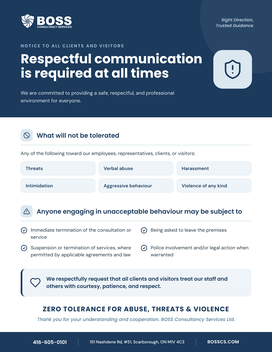
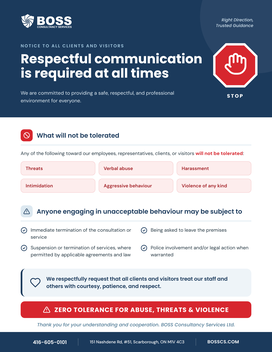
Notice: red stop sign and red accents
Claude-Session: https://claude.ai/code/session_01P2g3NL2n6FqvaNYp5x9Ud1

diff --git a/public/general/notice.html b/public/general/notice.html
@@ -1,4 +1,4 @@
-<section class="sheet" data-tpl="notice-v2" style="width:816px;height:1056px">
+<section class="sheet" data-tpl="notice-v3" style="width:816px;height:1056px">
 <div style="position:relative;width:816px;height:1056px;overflow:hidden;background:#ffffff;font-family:'DM Sans',sans-serif;">
 <div data-kind="shape" style="position: absolute; left: 0px; top: 0px; width: 816px; height: 352px; margin: 0; box-sizing: border-box; background-color: rgb(27, 58, 92); background-size: auto; background-position: 0% 0%; background-repeat: repeat; border-radius: 0px"></div>
 <div data-kind="shape" style="position: absolute; left: 600px; top: -120px; width: 340px; height: 340px; margin: 0; box-sizing: border-box; background-color: rgba(220, 232, 240, 0.07); background-size: auto; background-position: 0% 0%; background-repeat: repeat; border-radius: 50%"></div>
@@ -7,19 +7,19 @@
 <div data-kind="text" style="position: absolute; left: 62px; top: 128px; width: 310.93px; height: 20px; margin: 0; box-sizing: border-box; hyphens: manual; text-indent: 0px; font-kerning: auto; font-family: Poppins; font-size: 13px; font-weight: 600; letter-spacing: 2.08px; word-spacing: 0px; color: rgb(158, 195, 219); text-align: start; background-size: auto; background-position: 0% 0%; background-repeat: repeat; border-radius: 0px; padding: 0px">NOTICE TO ALL CLIENTS AND VISITORS</div>
 <div data-kind="text" style="position: absolute; left: 62px; top: 156px; width: 570.02px; height: 85.78px; margin: 0; box-sizing: border-box; hyphens: manual; text-indent: 0px; font-kerning: auto; font-family: Poppins; font-size: 39px; font-weight: 700; line-height: 42.9px; word-spacing: 0px; color: rgb(255, 255, 255); text-align: start; background-size: auto; background-position: 0% 0%; background-repeat: repeat; border-radius: 0px; padding: 0px">Respectful communication<br>is required at all times</div>
 <div data-kind="text" style="position: absolute; left: 62px; top: 268px; width: 540.02px; height: 45px; margin: 0; box-sizing: border-box; hyphens: manual; text-indent: 0px; font-kerning: auto; font-family: 'DM Sans', sans-serif; font-size: 15px; font-weight: 400; line-height: 22.5px; word-spacing: 0px; color: rgb(220, 232, 240); text-align: start; background-size: auto; background-position: 0% 0%; background-repeat: repeat; border-radius: 0px; padding: 0px">We are committed to providing a safe, respectful, and professional environment for everyone.</div>
-<div data-kind="shape" style="position: absolute; left: 640px; top: 150px; width: 116px; height: 116px; margin: 0; box-sizing: border-box; background-color: rgb(220, 232, 240); background-size: auto; background-position: 0% 0%; background-repeat: repeat; border-radius: 28px"></div>
-<svg width="64" height="64" viewBox="0 0 24 24" fill="none" stroke="#1B3A5C" stroke-width="1.7" stroke-linecap="round" stroke-linejoin="round" style="position: absolute; left: 666px; top: 176px; width: 64px; height: 64px; margin: 0; box-sizing: border-box; color: rgb(0, 0, 0)"><path d="M20 13c0 5-3.5 7.5-7.66 8.95a1 1 0 0 1-.67-.01C7.5 20.5 4 18 4 13V6a1 1 0 0 1 1-1c2 0 4.5-1.2 6.24-2.72a1.17 1.17 0 0 1 1.52 0C14.51 3.81 17 5 19 5a1 1 0 0 1 1 1z"></path><path d="M12 8v4"></path><path d="M12 16h.01"></path></svg>
-<div data-kind="shape" style="position: absolute; left: 62px; top: 388px; width: 36px; height: 36px; margin: 0; box-sizing: border-box; background-color: rgb(220, 232, 240); background-size: auto; background-position: 0% 0%; background-repeat: repeat; border-radius: 10px"></div>
-<svg width="20" height="20" viewBox="0 0 24 24" fill="none" stroke="#1B3A5C" stroke-width="2" stroke-linecap="round" stroke-linejoin="round" style="position: absolute; left: 70px; top: 396px; width: 20px; height: 20px; margin: 0; box-sizing: border-box; color: rgb(0, 0, 0)"><circle cx="12" cy="12" r="10"></circle><path d="m4.9 4.9 14.2 14.2"></path></svg>
+<svg style="position: absolute; left: 636px; top: 126px; width: 140px; height: 140px; margin: 0; box-sizing: border-box; color: rgb(0, 0, 0)" width="140" height="140" viewBox="0 0 160 160"><polygon points="47,4 113,4 156,47 156,113 113,156 47,156 4,113 4,47" fill="#ffffff"></polygon><polygon points="50,12 110,12 148,50 148,110 110,148 50,148 12,110 12,50" fill="#D7262E"></polygon><g transform="translate(40 34) scale(3.4)" fill="none" stroke="#ffffff" stroke-width="1.8" stroke-linecap="round" stroke-linejoin="round"><path d="M18 11V6a2 2 0 0 0-4 0"></path><path d="M14 10V4a2 2 0 0 0-4 0v2"></path><path d="M10 10.5V6a2 2 0 0 0-4 0v8"></path><path d="M18 8a2 2 0 1 1 4 0v6a8 8 0 0 1-8 8h-2c-2.8 0-4.5-.86-5.99-2.34l-3.6-3.6a2 2 0 0 1 2.83-2.82L7 15"></path></g></svg>
+<div data-kind="text" style="position: absolute; left: 636px; top: 276px; width: 140.02px; height: 23px; margin: 0; box-sizing: border-box; hyphens: manual; text-indent: 0px; font-kerning: auto; font-family: Poppins; font-size: 15px; font-weight: 700; letter-spacing: 2.7px; word-spacing: 0px; color: rgb(255, 255, 255); text-align: center; background-size: auto; background-position: 0% 0%; background-repeat: repeat; border-radius: 0px; padding: 0px">STOP</div>
+<div data-kind="shape" style="position: absolute; left: 62px; top: 388px; width: 36px; height: 36px; margin: 0; box-sizing: border-box; background-color: rgb(215, 38, 46); background-size: auto; background-position: 0% 0%; background-repeat: repeat; border-radius: 10px"></div>
+<svg width="20" height="20" viewBox="0 0 24 24" fill="none" stroke="#ffffff" stroke-width="2.2" stroke-linecap="round" stroke-linejoin="round" style="position: absolute; left: 70px; top: 396px; width: 20px; height: 20px; margin: 0; box-sizing: border-box; color: rgb(0, 0, 0)"><circle cx="12" cy="12" r="10"></circle><path d="m4.9 4.9 14.2 14.2"></path></svg>
 <div data-kind="text" style="position: absolute; left: 110px; top: 391.5px; width: 247.96px; height: 29px; margin: 0; box-sizing: border-box; hyphens: manual; text-indent: 0px; font-kerning: auto; font-family: Poppins; font-size: 19px; font-weight: 600; word-spacing: 0px; color: rgb(27, 58, 92); text-align: start; background-size: auto; background-position: 0% 0%; background-repeat: repeat; border-radius: 0px; padding: 0px">What will not be tolerated</div>
 <div data-kind="shape" style="position: absolute; left: 62px; top: 434px; width: 692px; height: 2px; margin: 0; box-sizing: border-box; background-color: rgb(220, 232, 240); background-size: auto; background-position: 0% 0%; background-repeat: repeat; border-radius: 0px"></div>
-<div data-kind="text" style="position: absolute; left: 62px; top: 450px; width: 692.02px; height: 21.75px; margin: 0; box-sizing: border-box; hyphens: manual; text-indent: 0px; font-kerning: auto; font-family: 'DM Sans', sans-serif; font-size: 14.5px; font-weight: 400; line-height: 21.75px; word-spacing: 0px; color: rgb(34, 52, 63); text-align: start; background-size: auto; background-position: 0% 0%; background-repeat: repeat; border-radius: 0px; padding: 0px">Any of the following toward our employees, representatives, clients, or visitors:</div>
-<div data-kind="text" style="position: absolute; left: 62px; top: 484px; width: 224.02px; height: 42px; margin: 0; box-sizing: border-box; hyphens: manual; text-indent: 0px; font-kerning: auto; font-family: 'DM Sans', sans-serif; font-size: 14px; font-weight: 600; word-spacing: 0px; color: rgb(27, 58, 92); text-align: start; background-color: rgb(238, 244, 248); background-size: auto; background-position: 0% 0%; background-repeat: repeat; border-top: 1px solid rgb(220, 232, 240); border-right: 1px solid rgb(220, 232, 240); border-bottom: 1px solid rgb(220, 232, 240); border-left: 1px solid rgb(220, 232, 240); border-radius: 10px; padding: 11px 14px">Threats</div>
-<div data-kind="text" style="position: absolute; left: 296px; top: 484px; width: 224.02px; height: 42px; margin: 0; box-sizing: border-box; hyphens: manual; text-indent: 0px; font-kerning: auto; font-family: 'DM Sans', sans-serif; font-size: 14px; font-weight: 600; word-spacing: 0px; color: rgb(27, 58, 92); text-align: start; background-color: rgb(238, 244, 248); background-size: auto; background-position: 0% 0%; background-repeat: repeat; border-top: 1px solid rgb(220, 232, 240); border-right: 1px solid rgb(220, 232, 240); border-bottom: 1px solid rgb(220, 232, 240); border-left: 1px solid rgb(220, 232, 240); border-radius: 10px; padding: 11px 14px">Verbal abuse</div>
-<div data-kind="text" style="position: absolute; left: 530px; top: 484px; width: 224.02px; height: 42px; margin: 0; box-sizing: border-box; hyphens: manual; text-indent: 0px; font-kerning: auto; font-family: 'DM Sans', sans-serif; font-size: 14px; font-weight: 600; word-spacing: 0px; color: rgb(27, 58, 92); text-align: start; background-color: rgb(238, 244, 248); background-size: auto; background-position: 0% 0%; background-repeat: repeat; border-top: 1px solid rgb(220, 232, 240); border-right: 1px solid rgb(220, 232, 240); border-bottom: 1px solid rgb(220, 232, 240); border-left: 1px solid rgb(220, 232, 240); border-radius: 10px; padding: 11px 14px">Harassment</div>
-<div data-kind="text" style="position: absolute; left: 62px; top: 536px; width: 224.02px; height: 42px; margin: 0; box-sizing: border-box; hyphens: manual; text-indent: 0px; font-kerning: auto; font-family: 'DM Sans', sans-serif; font-size: 14px; font-weight: 600; word-spacing: 0px; color: rgb(27, 58, 92); text-align: start; background-color: rgb(238, 244, 248); background-size: auto; background-position: 0% 0%; background-repeat: repeat; border-top: 1px solid rgb(220, 232, 240); border-right: 1px solid rgb(220, 232, 240); border-bottom: 1px solid rgb(220, 232, 240); border-left: 1px solid rgb(220, 232, 240); border-radius: 10px; padding: 11px 14px">Intimidation</div>
-<div data-kind="text" style="position: absolute; left: 296px; top: 536px; width: 224.02px; height: 42px; margin: 0; box-sizing: border-box; hyphens: manual; text-indent: 0px; font-kerning: auto; font-family: 'DM Sans', sans-serif; font-size: 14px; font-weight: 600; word-spacing: 0px; color: rgb(27, 58, 92); text-align: start; background-color: rgb(238, 244, 248); background-size: auto; background-position: 0% 0%; background-repeat: repeat; border-top: 1px solid rgb(220, 232, 240); border-right: 1px solid rgb(220, 232, 240); border-bottom: 1px solid rgb(220, 232, 240); border-left: 1px solid rgb(220, 232, 240); border-radius: 10px; padding: 11px 14px">Aggressive behaviour</div>
-<div data-kind="text" style="position: absolute; left: 530px; top: 536px; width: 224.02px; height: 42px; margin: 0; box-sizing: border-box; hyphens: manual; text-indent: 0px; font-kerning: auto; font-family: 'DM Sans', sans-serif; font-size: 14px; font-weight: 600; word-spacing: 0px; color: rgb(27, 58, 92); text-align: start; background-color: rgb(238, 244, 248); background-size: auto; background-position: 0% 0%; background-repeat: repeat; border-top: 1px solid rgb(220, 232, 240); border-right: 1px solid rgb(220, 232, 240); border-bottom: 1px solid rgb(220, 232, 240); border-left: 1px solid rgb(220, 232, 240); border-radius: 10px; padding: 11px 14px">Violence of any kind</div>
+<div data-kind="text" style="position: absolute; left: 62px; top: 450px; width: 692.02px; height: 21.75px; margin: 0; box-sizing: border-box; hyphens: manual; text-indent: 0px; font-kerning: auto; font-family: 'DM Sans', sans-serif; font-size: 14.5px; font-weight: 400; line-height: 21.75px; word-spacing: 0px; color: rgb(34, 52, 63); text-align: start; background-size: auto; background-position: 0% 0%; background-repeat: repeat; border-radius: 0px; padding: 0px">Any of the following toward our employees, representatives, clients, or visitors <b style="color:#D7262E">will not be tolerated</b>:</div>
+<div data-kind="text" style="position: absolute; left: 62px; top: 484px; width: 224.02px; height: 42px; margin: 0; box-sizing: border-box; hyphens: manual; text-indent: 0px; font-kerning: auto; font-family: 'DM Sans', sans-serif; font-size: 14px; font-weight: 600; word-spacing: 0px; color: rgb(161, 29, 35); text-align: start; background-color: rgb(253, 237, 237); background-size: auto; background-position: 0% 0%; background-repeat: repeat; border-top: 1px solid rgb(244, 199, 200); border-right: 1px solid rgb(244, 199, 200); border-bottom: 1px solid rgb(244, 199, 200); border-left: 1px solid rgb(244, 199, 200); border-radius: 10px; padding: 11px 14px">Threats</div>
+<div data-kind="text" style="position: absolute; left: 296px; top: 484px; width: 224.02px; height: 42px; margin: 0; box-sizing: border-box; hyphens: manual; text-indent: 0px; font-kerning: auto; font-family: 'DM Sans', sans-serif; font-size: 14px; font-weight: 600; word-spacing: 0px; color: rgb(161, 29, 35); text-align: start; background-color: rgb(253, 237, 237); background-size: auto; background-position: 0% 0%; background-repeat: repeat; border-top: 1px solid rgb(244, 199, 200); border-right: 1px solid rgb(244, 199, 200); border-bottom: 1px solid rgb(244, 199, 200); border-left: 1px solid rgb(244, 199, 200); border-radius: 10px; padding: 11px 14px">Verbal abuse</div>
+<div data-kind="text" style="position: absolute; left: 530px; top: 484px; width: 224.02px; height: 42px; margin: 0; box-sizing: border-box; hyphens: manual; text-indent: 0px; font-kerning: auto; font-family: 'DM Sans', sans-serif; font-size: 14px; font-weight: 600; word-spacing: 0px; color: rgb(161, 29, 35); text-align: start; background-color: rgb(253, 237, 237); background-size: auto; background-position: 0% 0%; background-repeat: repeat; border-top: 1px solid rgb(244, 199, 200); border-right: 1px solid rgb(244, 199, 200); border-bottom: 1px solid rgb(244, 199, 200); border-left: 1px solid rgb(244, 199, 200); border-radius: 10px; padding: 11px 14px">Harassment</div>
+<div data-kind="text" style="position: absolute; left: 62px; top: 536px; width: 224.02px; height: 42px; margin: 0; box-sizing: border-box; hyphens: manual; text-indent: 0px; font-kerning: auto; font-family: 'DM Sans', sans-serif; font-size: 14px; font-weight: 600; word-spacing: 0px; color: rgb(161, 29, 35); text-align: start; background-color: rgb(253, 237, 237); background-size: auto; background-position: 0% 0%; background-repeat: repeat; border-top: 1px solid rgb(244, 199, 200); border-right: 1px solid rgb(244, 199, 200); border-bottom: 1px solid rgb(244, 199, 200); border-left: 1px solid rgb(244, 199, 200); border-radius: 10px; padding: 11px 14px">Intimidation</div>
+<div data-kind="text" style="position: absolute; left: 296px; top: 536px; width: 224.02px; height: 42px; margin: 0; box-sizing: border-box; hyphens: manual; text-indent: 0px; font-kerning: auto; font-family: 'DM Sans', sans-serif; font-size: 14px; font-weight: 600; word-spacing: 0px; color: rgb(161, 29, 35); text-align: start; background-color: rgb(253, 237, 237); background-size: auto; background-position: 0% 0%; background-repeat: repeat; border-top: 1px solid rgb(244, 199, 200); border-right: 1px solid rgb(244, 199, 200); border-bottom: 1px solid rgb(244, 199, 200); border-left: 1px solid rgb(244, 199, 200); border-radius: 10px; padding: 11px 14px">Aggressive behaviour</div>
+<div data-kind="text" style="position: absolute; left: 530px; top: 536px; width: 224.02px; height: 42px; margin: 0; box-sizing: border-box; hyphens: manual; text-indent: 0px; font-kerning: auto; font-family: 'DM Sans', sans-serif; font-size: 14px; font-weight: 600; word-spacing: 0px; color: rgb(161, 29, 35); text-align: start; background-color: rgb(253, 237, 237); background-size: auto; background-position: 0% 0%; background-repeat: repeat; border-top: 1px solid rgb(244, 199, 200); border-right: 1px solid rgb(244, 199, 200); border-bottom: 1px solid rgb(244, 199, 200); border-left: 1px solid rgb(244, 199, 200); border-radius: 10px; padding: 11px 14px">Violence of any kind</div>
 <div data-kind="shape" style="position: absolute; left: 62px; top: 616px; width: 36px; height: 36px; margin: 0; box-sizing: border-box; background-color: rgb(220, 232, 240); background-size: auto; background-position: 0% 0%; background-repeat: repeat; border-radius: 10px"></div>
 <svg width="20" height="20" viewBox="0 0 24 24" fill="none" stroke="#1B3A5C" stroke-width="2" stroke-linecap="round" stroke-linejoin="round" style="position: absolute; left: 70px; top: 624px; width: 20px; height: 20px; margin: 0; box-sizing: border-box; color: rgb(0, 0, 0)"><path d="M12 9v4"></path><path d="M12 17h.01"></path><path d="M10.3 3.9 1.8 18a2 2 0 0 0 1.7 3h17a2 2 0 0 0 1.7-3L13.7 3.9a2 2 0 0 0-3.4 0z"></path></svg>
 <div data-kind="text" style="position: absolute; left: 110px; top: 619.5px; width: 616.4499999999999px; height: 29px; margin: 0; box-sizing: border-box; hyphens: manual; text-indent: 0px; font-kerning: auto; font-family: Poppins; font-size: 19px; font-weight: 600; word-spacing: 0px; color: rgb(27, 58, 92); text-align: start; background-size: auto; background-position: 0% 0%; background-repeat: repeat; border-radius: 0px; padding: 0px">Anyone engaging in unacceptable behaviour may be subject to</div>
@@ -35,8 +35,10 @@
 <div data-kind="shape" style="position: absolute; left: 62px; top: 806px; width: 692px; height: 84px; margin: 0; box-sizing: border-box; background-color: rgb(238, 244, 248); background-size: auto; background-position: 0% 0%; background-repeat: repeat; border-left: 5px solid rgb(27, 58, 92); border-radius: 14px"></div>
 <svg width="34" height="34" viewBox="0 0 24 24" style="position: absolute; left: 89px; top: 831px; width: 34px; height: 34px; margin: 0; box-sizing: border-box; color: rgb(0, 0, 0)" fill="none" stroke="#1B3A5C" stroke-width="1.8" stroke-linecap="round" stroke-linejoin="round"><path d="M19 14c1.49-1.46 3-3.21 3-5.5A5.5 5.5 0 0 0 16.5 3c-1.76 0-3 .5-4.5 2-1.5-1.5-2.74-2-4.5-2A5.5 5.5 0 0 0 2 8.5c0 2.3 1.5 4.05 3 5.5l7 7Z"></path></svg>
 <div data-kind="text" style="position: absolute; left: 139px; top: 826.31px; width: 593.02px; height: 43.38px; margin: 0; box-sizing: border-box; hyphens: manual; text-indent: 0px; font-kerning: auto; font-family: Poppins; font-size: 15.5px; font-weight: 600; line-height: 21.7px; word-spacing: 0px; color: rgb(27, 58, 92); text-align: start; background-size: auto; background-position: 0% 0%; background-repeat: repeat; border-radius: 0px; padding: 0px">We respectfully request that all clients and visitors treat our staff and others with courtesy, patience, and respect.</div>
-<div data-kind="text" style="position: absolute; left: 62px; top: 912px; width: 692.02px; height: 30px; margin: 0; box-sizing: border-box; hyphens: manual; text-indent: 0px; font-kerning: auto; font-family: Poppins; font-size: 20px; font-weight: 700; letter-spacing: 1.2px; word-spacing: 0px; color: rgb(27, 58, 92); text-align: center; background-size: auto; background-position: 0% 0%; background-repeat: repeat; border-radius: 0px; padding: 0px">ZERO TOLERANCE FOR ABUSE, THREATS &amp; VIOLENCE</div>
-<div data-kind="text" style="position: absolute; left: 62px; top: 948px; width: 692.02px; height: 21px; margin: 0; box-sizing: border-box; hyphens: manual; text-indent: 0px; font-kerning: auto; font-family: Poppins; font-size: 14px; font-weight: 500; font-style: italic; word-spacing: 0px; color: rgb(79, 122, 149); text-align: center; background-size: auto; background-position: 0% 0%; background-repeat: repeat; border-radius: 0px; padding: 0px">Thank you for your understanding and cooperation. BOSS Consultancy Services Ltd.</div>
+<div data-kind="shape" style="position: absolute; left: 62px; top: 904px; width: 692px; height: 50px; margin: 0; box-sizing: border-box; background-color: rgb(215, 38, 46); background-size: auto; background-position: 0% 0%; background-repeat: repeat; border-radius: 12px"></div>
+<svg width="22" height="22" viewBox="0 0 24 24" fill="none" stroke="#ffffff" stroke-width="2.2" stroke-linecap="round" stroke-linejoin="round" style="position: absolute; left: 129.22px; top: 918px; width: 22px; height: 22px; margin: 0; box-sizing: border-box; color: rgb(255, 255, 255)"><path d="M12 9v4"></path><path d="M12 17h.01"></path><path d="M10.3 3.9 1.8 18a2 2 0 0 0 1.7 3h17a2 2 0 0 0 1.7-3L13.7 3.9a2 2 0 0 0-3.4 0z"></path></svg>
+<div data-kind="text" style="position: absolute; left: 163.22px; top: 914.5px; width: 523.5699999999999px; height: 29px; margin: 0; box-sizing: border-box; hyphens: manual; text-indent: 0px; font-kerning: auto; font-family: Poppins; font-size: 19px; font-weight: 700; letter-spacing: 0.95px; word-spacing: 0px; color: rgb(255, 255, 255); text-align: start; background-size: auto; background-position: 0% 0%; background-repeat: repeat; border-radius: 0px; padding: 0px">ZERO TOLERANCE FOR ABUSE, THREATS &amp; VIOLENCE</div>
+<div data-kind="text" style="position: absolute; left: 62px; top: 964px; width: 692.02px; height: 21px; margin: 0; box-sizing: border-box; hyphens: manual; text-indent: 0px; font-kerning: auto; font-family: Poppins; font-size: 14px; font-weight: 500; font-style: italic; word-spacing: 0px; color: rgb(79, 122, 149); text-align: center; background-size: auto; background-position: 0% 0%; background-repeat: repeat; border-radius: 0px; padding: 0px">Thank you for your understanding and cooperation. BOSS Consultancy Services Ltd.</div>
 <div data-kind="shape" style="position: absolute; left: 0px; top: 996px; width: 816px; height: 60px; margin: 0; box-sizing: border-box; background-color: rgb(27, 58, 92); background-size: auto; background-position: 0% 0%; background-repeat: repeat; border-radius: 0px"></div>
 <div data-kind="text" style="position: absolute; left: 98.69px; top: 1014.5px; width: 101.67px; height: 23px; margin: 0; box-sizing: border-box; hyphens: manual; text-indent: 0px; font-kerning: auto; font-family: Poppins; font-size: 15px; font-weight: 600; word-spacing: 0px; color: rgb(255, 255, 255); text-align: start; background-size: auto; background-position: 0% 0%; background-repeat: repeat; border-radius: 0px; padding: 0px">416-605-0101</div>
 <div data-kind="shape" style="position: absolute; left: 234.33px; top: 1015px; width: 1px; height: 22px; margin: 0; box-sizing: border-box; background-color: rgba(255, 255, 255, 0.3); background-size: auto; background-position: 0% 0%; background-repeat: repeat; border-radius: 0px"></div>

diff --git a/app/api/general/route.ts b/app/api/general/route.ts
@@ -13,7 +13,7 @@ export async function GET() {
   if (!cloudEnabled()) return NextResponse.json({ error: "The team library is not set up yet." }, { status: 501 });
   let docs = await listGeneral();
   // the first notice copied the sample's look; switch it to the BOSS design (wording unchanged)
-  const old = docs.filter((d) => !d.html.includes("data-tpl") && d.html.includes("rgb(215, 38, 46)") && /notice to all clients/i.test(d.name));
+  const old = docs.filter((d) => /notice to all clients/i.test(d.name) && (d.html.includes('data-tpl="notice-v2"') || (!d.html.includes("data-tpl") && d.html.includes("rgb(215, 38, 46)"))));
   if (old.length) {
     const html = await fs.readFile(path.join(/* turbopackIgnore: true */ process.cwd(), "public", "general", "notice.html"), "utf8");
     for (const d of old) {
